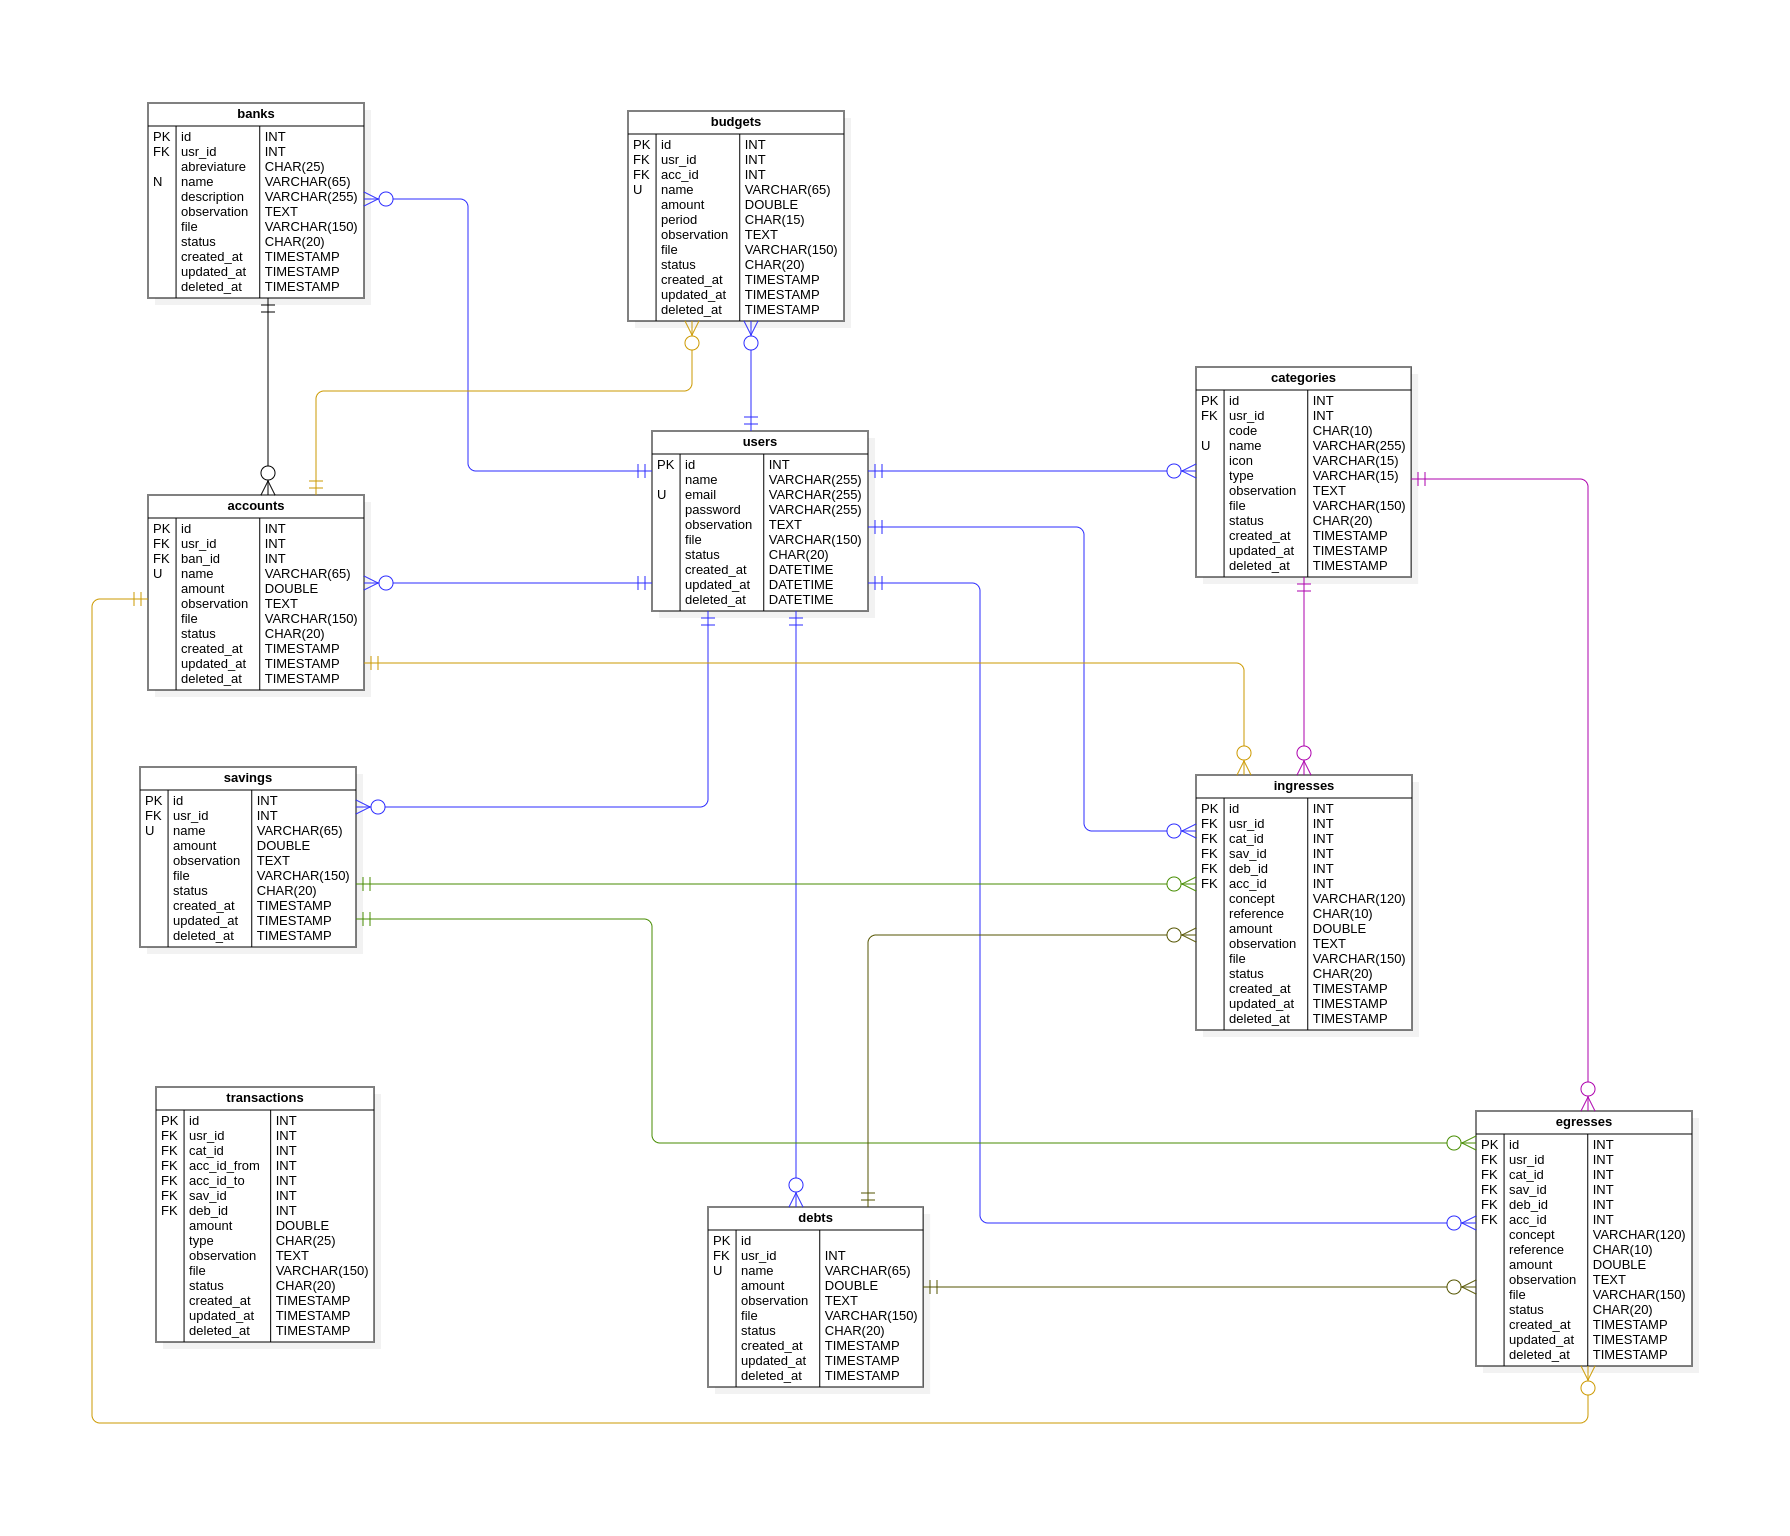
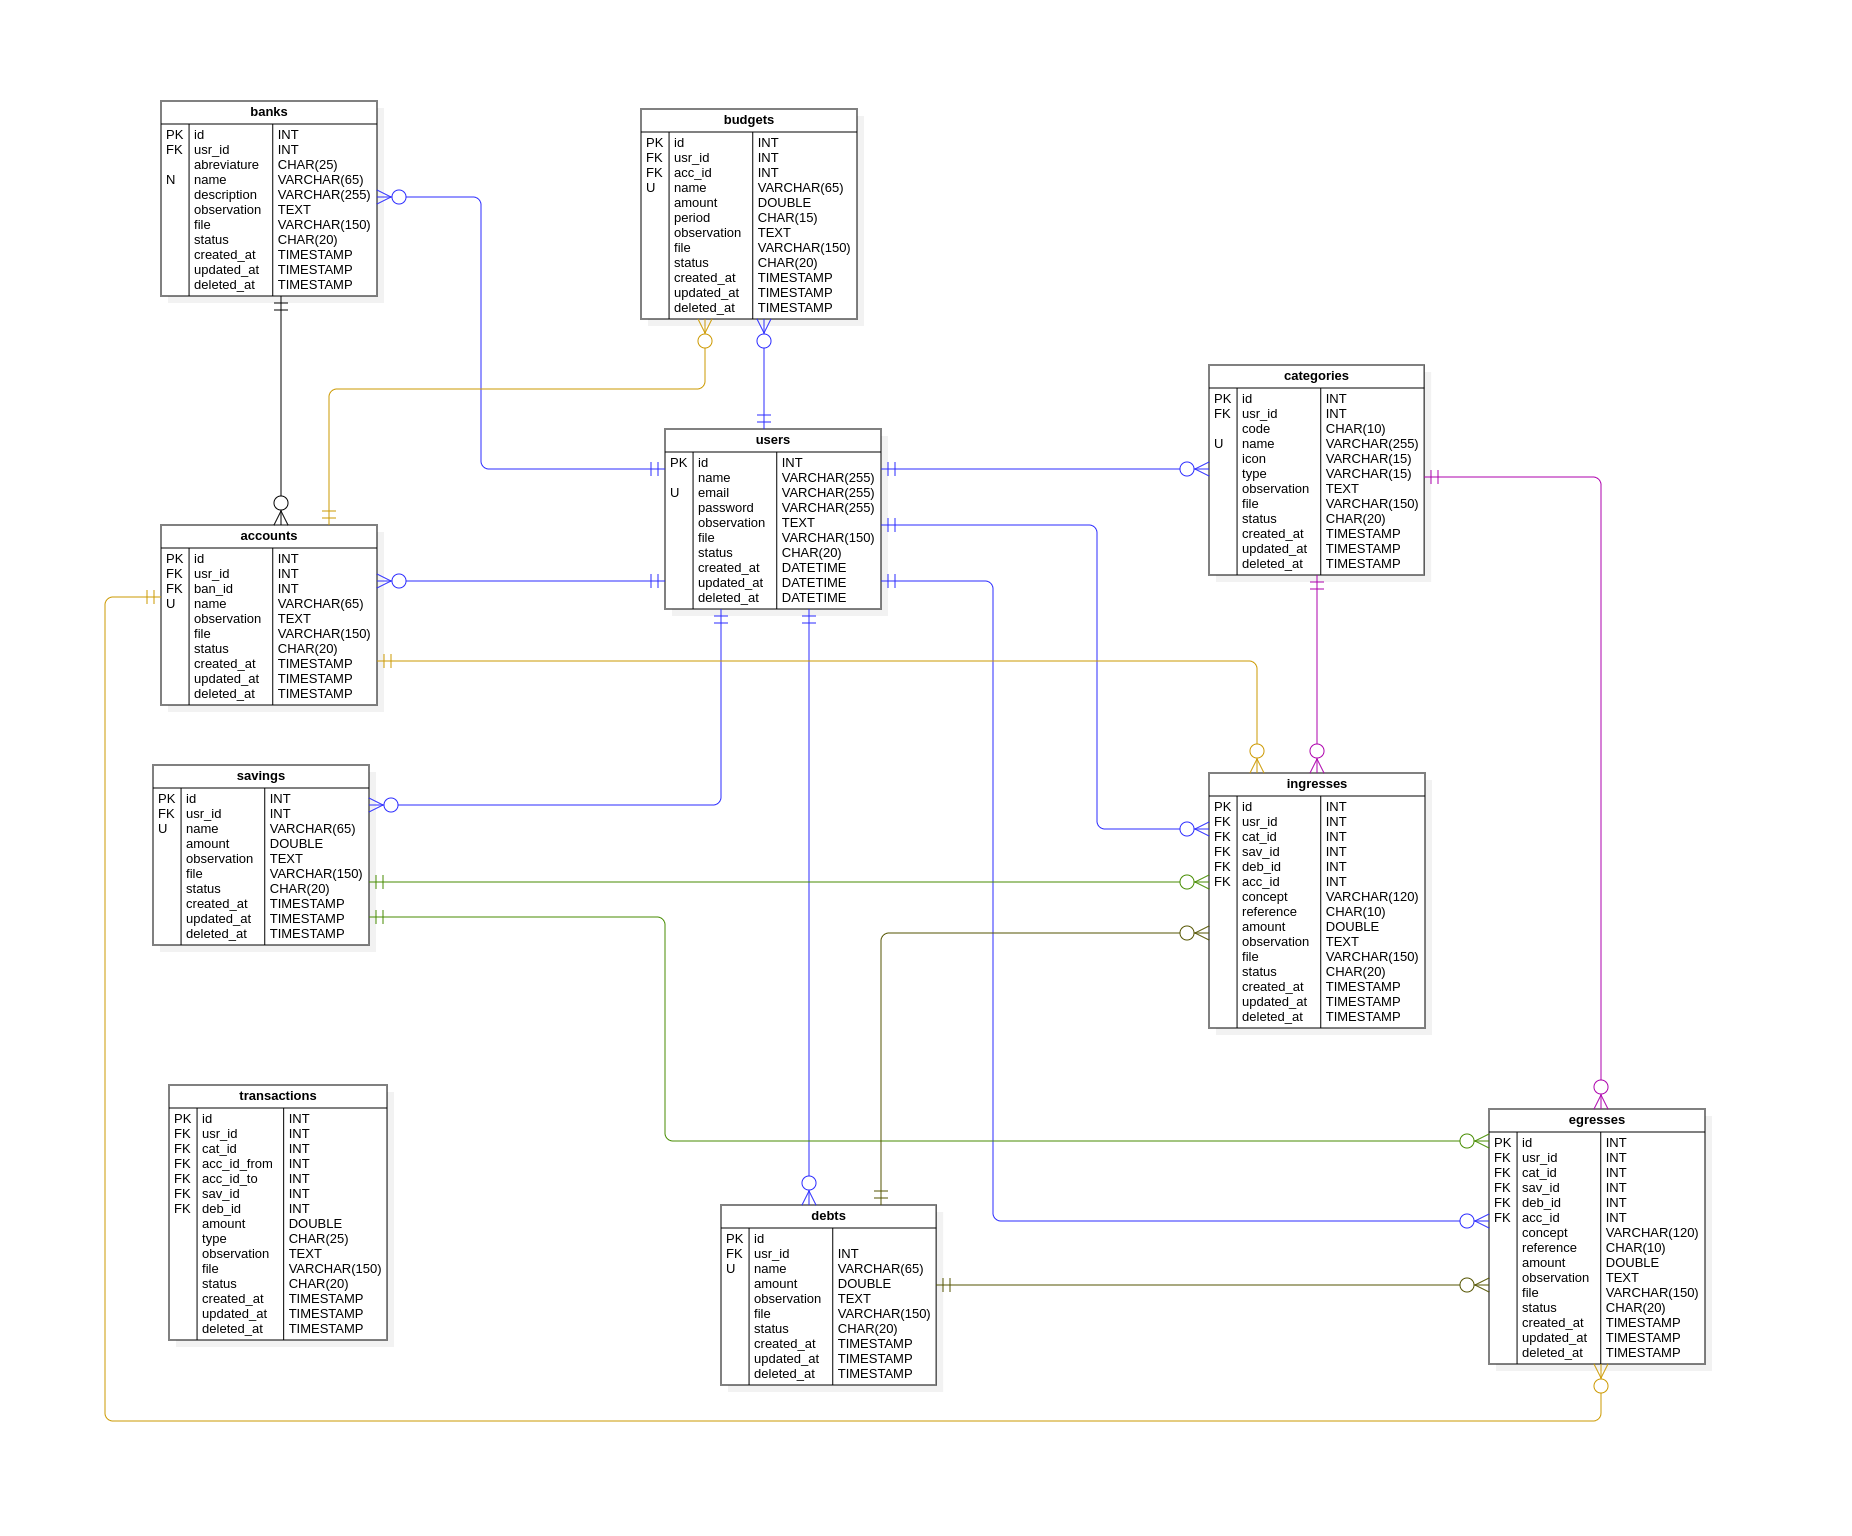
Removed attribute amount in account table

diff --git a/README.md b/README.md
@@ -109,7 +109,6 @@ CREATE TABLE IF NOT EXISTS accounts
     usr_id       INT               NULL DEFAULT 1      COMMENT "Identificador del usuario.",
     ban_id       INT               NULL DEFAULT 1      COMMENT "Identificador del catalogo de bancos.",
     name         VARCHAR(65)       NULL DEFAULT NULL   COMMENT "Nombre corto de cuenta.",
-    amount       DOUBLE            NULL DEFAULT 0      COMMENT "Importe inicial de la cuenta.",
     observation  TEXT              NULL DEFAULT NULL   COMMENT "Opcional, observaciones de la cuenta.",
     file         VARCHAR(150)      NULL DEFAULT NULL   COMMENT "Opcional, nombre de archivo.",
     status       CHAR(20)          NULL DEFAULT NULL   COMMENT "Estatus actual de cuenta: [Activo | Inactivo].",
